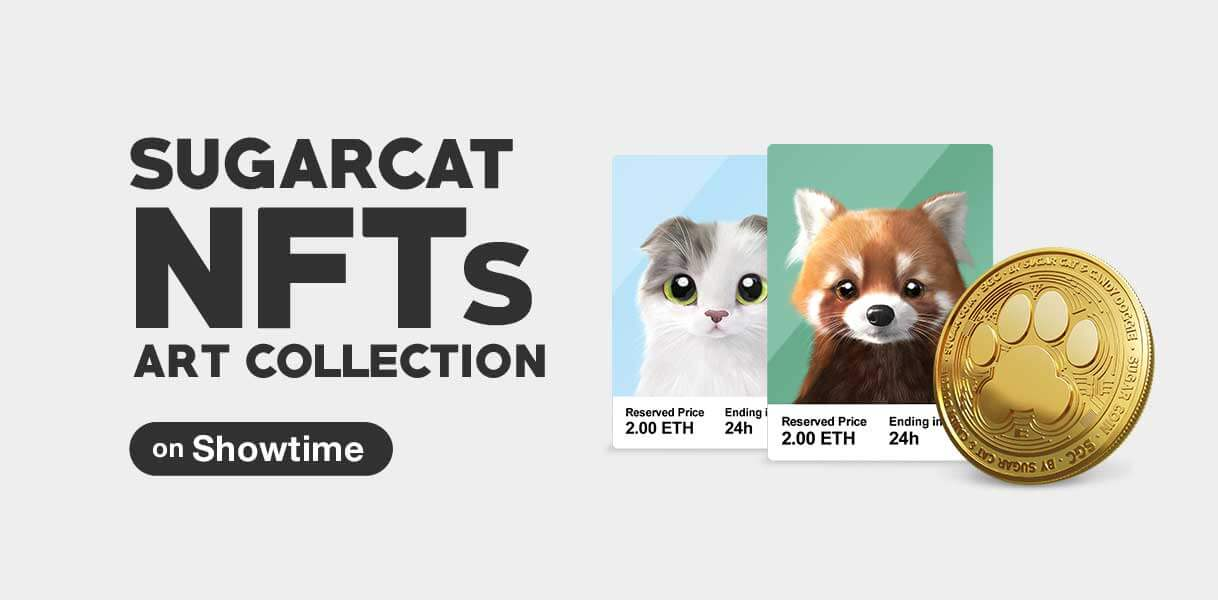
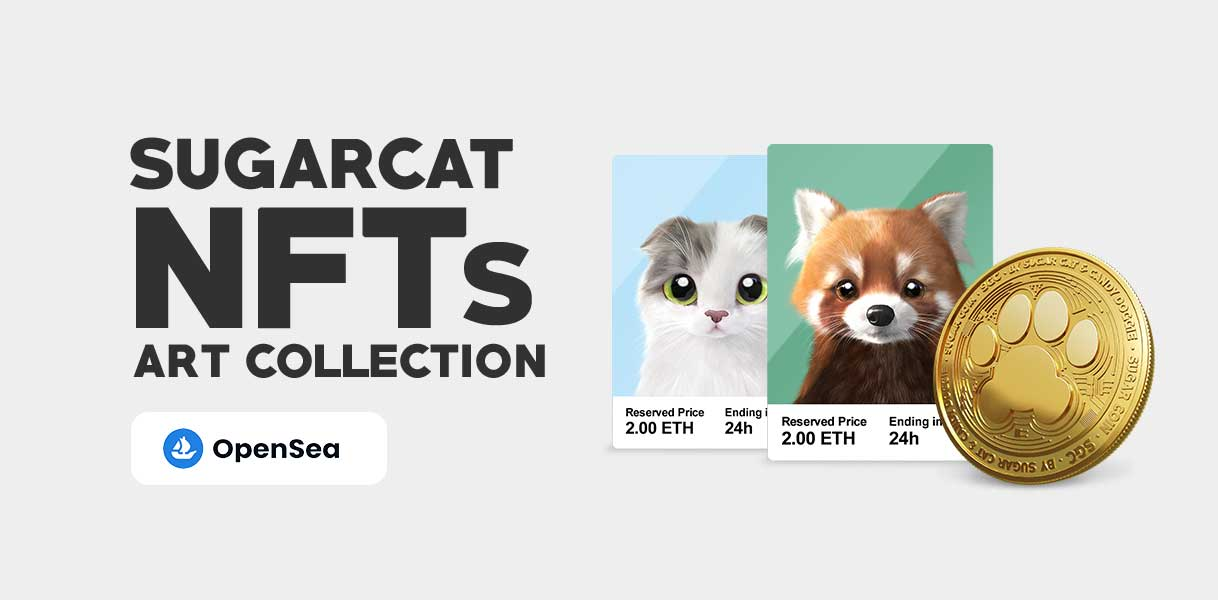
- NFT배너수정 쇼타임>오픈씨, 홀랜가 링크 복구  **앞 커밋에서 Koala CSS로 변경됨

Changed region(s): [[0.0936, 0.69, 0.3432, 0.81], [0.7488, 0.69, 0.78, 0.72], [0.6552, 0.69, 0.6864, 0.72]]

diff --git a/index.html b/index.html
@@ -212,11 +212,13 @@
             <span class="main_info lang en">Go to <b>Sugar Cat & Candy Doggie Store</b>.<br><br>Otherwise,&nbsp;&nbsp;
               <a class="text_btn_small" href="https://www.redbubble.com/people/sugarcat/shop/recent" target="_blank">RedBubble</a>,&nbsp;&nbsp;
               <a class="text_btn_small" href="https://www.curioos.com/sugarcat" target="_blank">Curioos</a>,&nbsp;&nbsp;
+              <a class="text_btn_small" href="https://www.holenga.com/" target="_blank">Holenga</a>,&nbsp;&nbsp;
               <a class="text_btn_small" href="https://marpple.shop/en/sugarcat" target="_blank">Marpple Shop</a></span>
 
             <span class="main_info lang ja hidden"><b>Sugar Cat & Candy Doggie Store</b>ショッピングモールに移動します。<br><br>他のショップをお探しですか？&nbsp;&nbsp;
               <a class="text_btn_small" href="https://www.redbubble.com/people/sugarcat/shop/recent" target="_blank">RedBubble</a>,&nbsp;&nbsp;
               <a class="text_btn_small" href="https://www.curioos.com/sugarcat" target="_blank">Curioos</a>,&nbsp;&nbsp;
+              <a class="text_btn_small" href="https://www.holenga.com/" target="_blank">Holenga</a>,&nbsp;&nbsp;
               <a class="text_btn_small" href="https://marpple.shop/jp/sugarcat" target="_blank">Marpple Shop</a></span>
 
             <span class="main_info lang ko hidden"><b>슈가캣&amp;캔디도기 쇼핑몰</b>로 연결됩니다.<br><br>다른 샵을 찾으시나요?<br>
@@ -227,7 +229,9 @@
               <br>
               <a class="text_btn_small" href="https://smartstore.naver.com/lnkmobile/category/5f4ba54e9fd144e2b4271b1d649d2d2e?cp=1" target="_blank">세븐에잇스</a>,&nbsp;&nbsp;
               <a class="text_btn_small" href="http://ophry.co.kr/product/search.html?banner_action=&keyword=%EC%8A%88%EA%B0%80%EC%BA%A3" target="_blank">오프리몰</a><br><a class="text_btn_small" href="https://www.redbubble.com/people/sugarcat/shop/recent" target="_blank">RedBubble</a>,&nbsp;&nbsp;
-              <a class="text_btn_small" href="https://www.curioos.com/sugarcat" target="_blank">Curioos</a></span>
+              <a class="text_btn_small" href="https://www.curioos.com/sugarcat" target="_blank">Curioos</a>,&nbsp;&nbsp;
+              <a class="text_btn_small" href="https://www.holenga.com/" target="_blank">Holenga</a></span>
+
 
 
             
@@ -268,9 +272,9 @@
 
 <!-- NFT banner -->
   <div class="">
-         <a class="lang en" href="https://tryshowtime.com/sugarcat"><img src="img/banner_nft.jpg" class="banner img no_margin" alt="sugarcat nft"></a>
-         <a class="lang ja hidden" href="https://tryshowtime.com/sugarcat"><img src="img/banner_nft.jpg" class="banner img no_margin" alt="sugarcat nft"></a>
-         <a class="lang ko hidden" href="https://tryshowtime.com/sugarcat"><img src="img/banner_nft.jpg" class="banner img no_margin" alt="sugarcat nft"></a>
+         <a class="lang en" href="https://opensea.io/collection/sugarcatcandydoggie"><img src="img/banner_nft.jpg" class="banner img no_margin" alt="sugarcat nft"></a>
+         <a class="lang ja hidden" href="https://opensea.io/collection/sugarcatcandydoggie"><img src="img/banner_nft.jpg" class="banner img no_margin" alt="sugarcat nft"></a>
+         <a class="lang ko hidden" href="https://opensea.io/collection/sugarcatcandydoggie"><img src="img/banner_nft.jpg" class="banner img no_margin" alt="sugarcat nft"></a>
   </div>
 <!--// NFT banner -->
 
